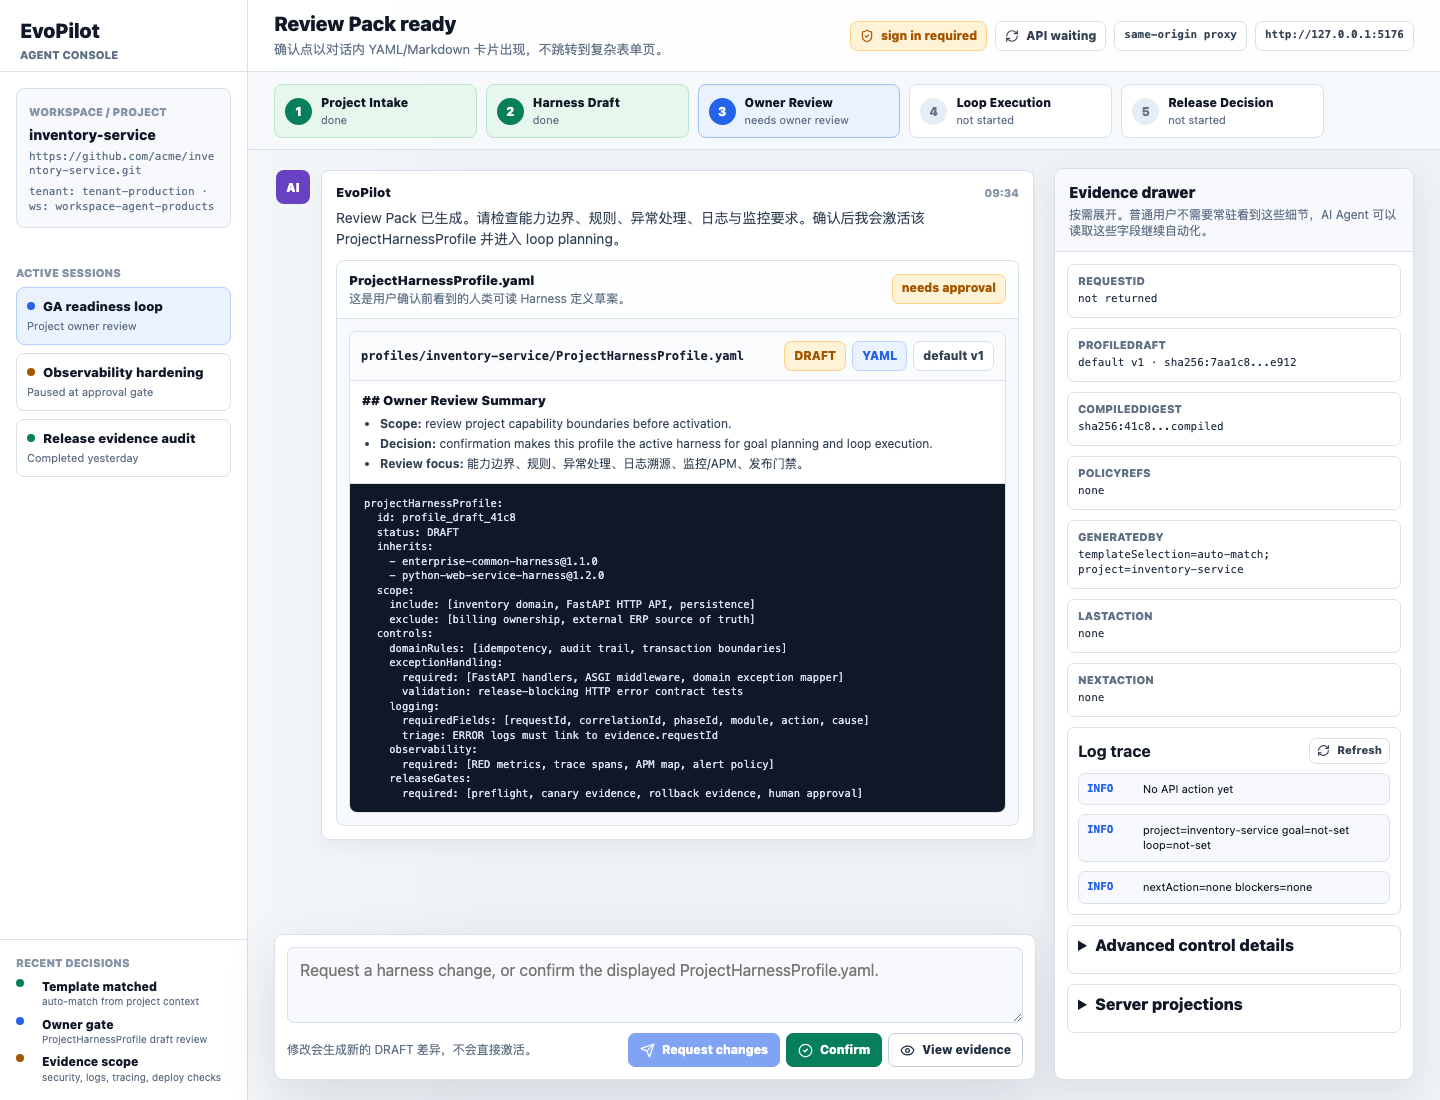
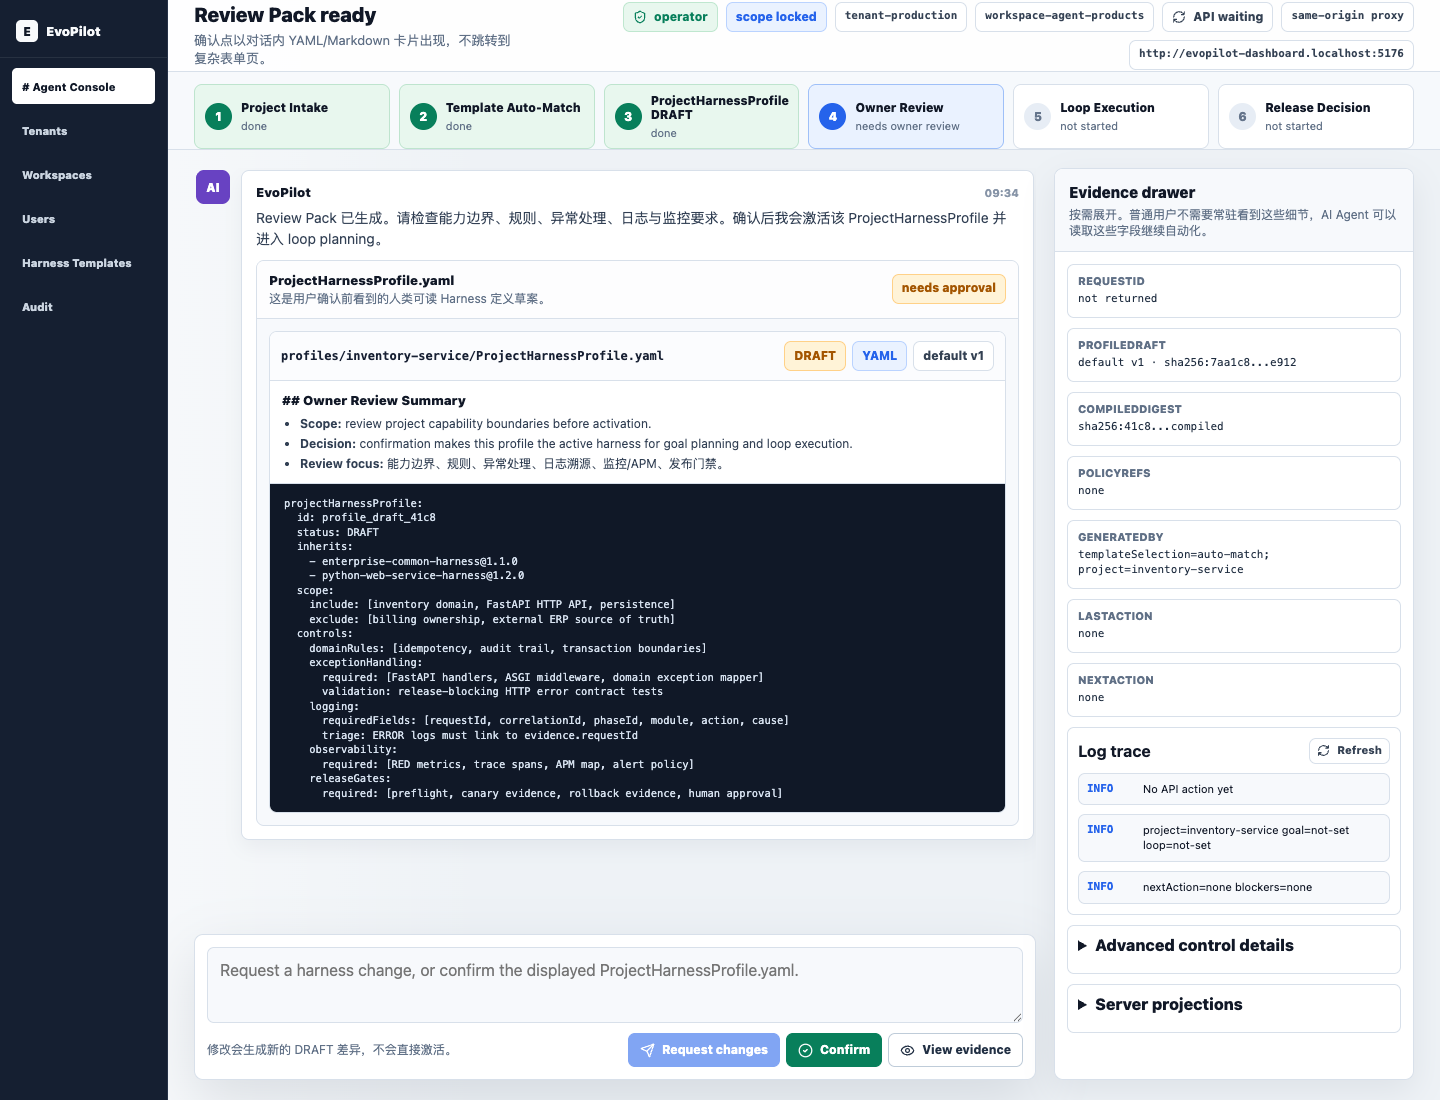
Update dashboard README screenshot

Changed region(s): [[0.0, 0.0, 0.9688, 1.0], [0.1562, 0.8655, 0.5938, 0.8964]]

diff --git a/src/App.tsx b/src/App.tsx
@@ -1201,7 +1201,8 @@ export default function App() {
 function stageState(step: ConsoleStep) {
   const state = [
     { label: "Project Intake", status: "not started", kind: "" },
-    { label: "Harness Draft", status: "not started", kind: "" },
+    { label: "Template Auto-Match", status: "not started", kind: "" },
+    { label: "ProjectHarnessProfile DRAFT", status: "not started", kind: "" },
     { label: "Owner Review", status: "not started", kind: "" },
     { label: "Loop Execution", status: "not started", kind: "" },
     { label: "Release Decision", status: "not started", kind: "" }
@@ -1220,42 +1221,49 @@ function stageState(step: ConsoleStep) {
   }
   if (step === "drafting") {
     done(0);
-    current(1, "drafting profile");
+    done(1);
+    current(2, "drafting profile");
   }
   if (step === "review") {
     done(0);
     done(1);
-    current(2, "needs owner review");
+    done(2);
+    current(3, "needs owner review");
   }
   if (step === "changes") {
     done(0);
     done(1);
-    current(2, "changes applied");
+    done(2);
+    current(3, "changes applied");
   }
   if (step === "activated") {
     done(0);
     done(1);
     done(2);
-    current(3, "planning");
+    done(3);
+    current(4, "planning");
   }
   if (step === "loop") {
     done(0);
     done(1);
     done(2);
-    current(3, "running");
+    done(3);
+    current(4, "running");
   }
   if (step === "blocker") {
     done(0);
     done(1);
     done(2);
-    current(3, "blocked repair", "warn");
+    done(3);
+    current(4, "blocked repair", "warn");
   }
   if (step === "release") {
     done(0);
     done(1);
     done(2);
     done(3);
-    current(4, "GO review");
+    done(4);
+    current(5, "GO review");
   }
   return state;
 }

diff --git a/src/styles.css b/src/styles.css
@@ -608,9 +608,9 @@ pre {
 
 .stages {
   display: grid;
-  grid-template-columns: repeat(5, minmax(0, 1fr));
+  grid-template-columns: repeat(6, minmax(0, 1fr));
   gap: 9px;
-  max-width: 1050px;
+  max-width: 1220px;
 }
 
 .stage {

diff --git a/docs/ai-agents/expected-ui-states.md b/docs/ai-agents/expected-ui-states.md
@@ -23,7 +23,8 @@ The sidebar must not show workspace/project cards, active sessions, recent decis
 | Stage | Expected State Labels |
 |---|---|
 | Project Intake | `editing goal`, `done` |
-| Harness Draft | `matching template`, `drafting profile`, `done` |
+| Template Auto-Match | `matching template`, `done` |
+| ProjectHarnessProfile DRAFT | `drafting profile`, `done` |
 | Owner Review | `needs owner review`, `changes applied`, `done` |
 | Loop Execution | `planning`, `running`, `blocked repair`, `done` |
 | Release Decision | `not started`, `GO review`, `NO-GO`, `BLOCKED` |
